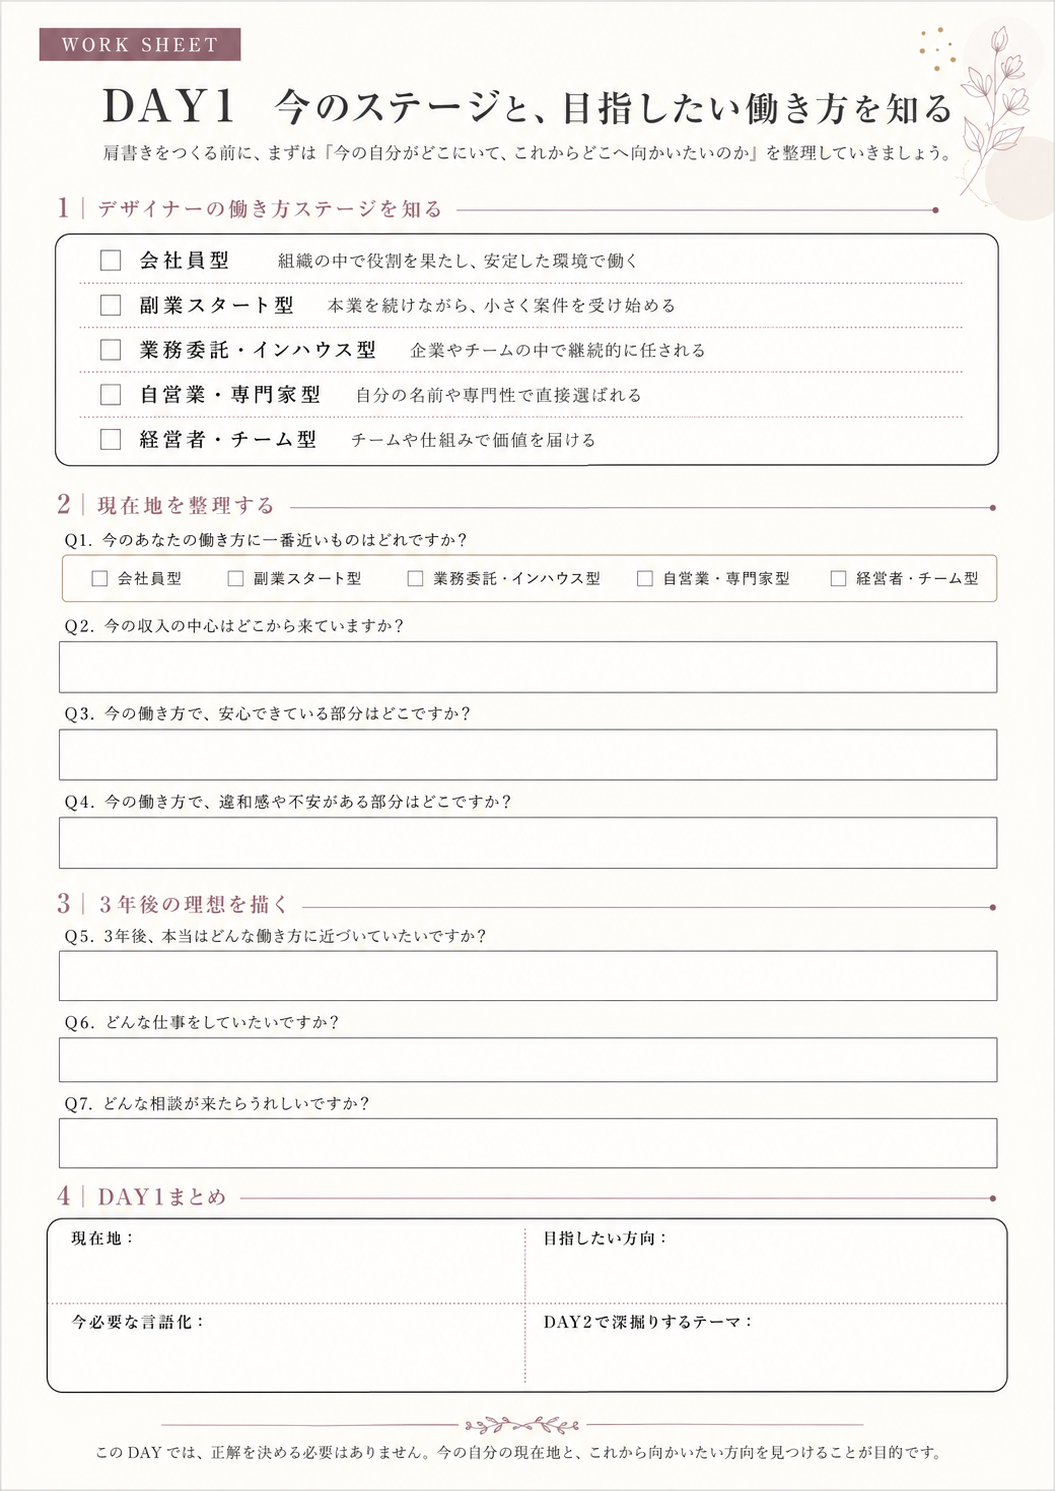
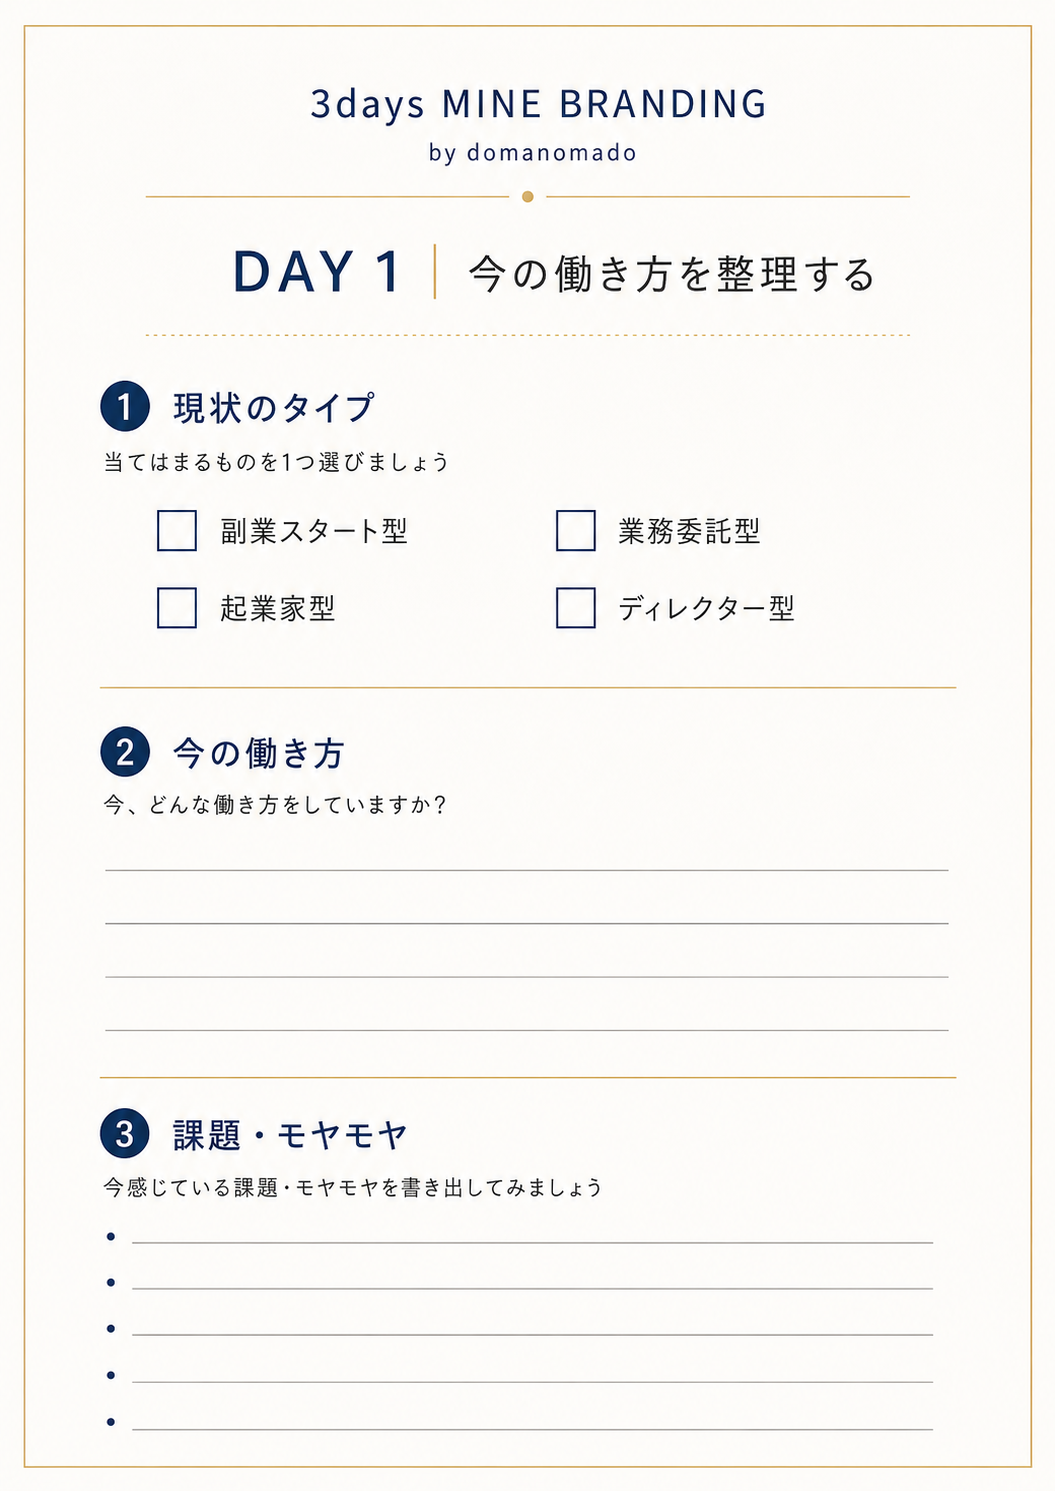
ワークシート画像（DAY1〜3）を新構成用に差し替え・表示を3枚対応に
- day1/day2/day3.png を新デザインに更新
- _get_worksheet_path をday{n}.pngの汎用パスに変更
- ウェルカム・マイページのワークシート説明を3DAY分に更新
- _note_guide_section で3枚を横並び表示

diff --git a/app.py b/app.py
@@ -223,10 +223,8 @@ _init_session()
 WORKSHEETS_DIR = Path(__file__).parent / "assets" / "worksheets"
 
 def _get_worksheet_path(day: int, route: str) -> Path | None:
-    if day == 1:
-        p = WORKSHEETS_DIR / "day1.png"
-        return p if p.exists() else None
-    return None
+    p = WORKSHEETS_DIR / f"day{day}.png"
+    return p if p.exists() else None
 
 def _show_worksheet(day: int, route: str):
     path = _get_worksheet_path(day, route)
@@ -373,14 +371,18 @@ def _note_guide_section(route: str = ""):
 border-radius:0 12px 12px 0;margin:8px 0 16px 0;line-height:1.9;">
 <strong>ブランディングノートの使い方</strong><br>
 AIとの壁打ちのあとに、自分の言葉でノートにまとめてみると思考がさらに整理されます。<br>
-DAY1に対応したワークシートを印刷して、<em>手書きで書き込みながらセッションを進める</em>のがおすすめです。
+各DAYに対応したワークシートを印刷して、<em>手書きで書き込みながらセッションを進める</em>のがおすすめです。
 </div>
 """, unsafe_allow_html=True)
 
-    day1_path = WORKSHEETS_DIR / "day1.png"
-    col1, col_dummy = st.columns([1, 1])
-    with col1:
-        _ws_card("DAY 1 ワークシート", day1_path, "dl_day1_guide")
+    col1, col2, col3 = st.columns(3)
+    for col, day, label in zip(
+        [col1, col2, col3],
+        [1, 2, 3],
+        ["DAY 1 今の働き方を整理する", "DAY 2 理想の状態を言語化する", "DAY 3 ギャップを整理する"],
+    ):
+        with col:
+            _ws_card(label, WORKSHEETS_DIR / f"day{day}.png", f"dl_day{day}_guide")
 
 
 # ── 画面1：ウェルカム ─────────────────────────────────────────────────────────
@@ -455,7 +457,7 @@ def show_welcome():
 <div style="background:#f5f0ff;border-radius:12px;padding:12px 16px;margin:12px 0;font-size:13px;color:#5a20a0;line-height:1.8;">
 ✍ <strong>AIの壁打ち＋手書きノートの組み合わせがおすすめです。</strong><br>
 AIとの対話のあと、自分の言葉でノートに書き出してみると、思考がさらに整理されます。<br>
-DAY1に対応したワークシートを用意しています。下記からダウンロードして、印刷してご活用ください。
+各DAYに対応したワークシートを用意しています。下記からダウンロードして、印刷してご活用ください。
 </div>
 """, unsafe_allow_html=True)
 
@@ -620,7 +622,7 @@ def show_home():
     with st.expander("ワークシートをダウンロードする（手書き記入用）"):
         st.markdown("""
 AIとの壁打ちのあとに、自分の言葉でノートに書き出してみると思考がさらに整理されます。
-DAY1対応のワークシートを印刷して、手書きで記入しながらセッションを進めるのもおすすめです。
+各DAYに対応したワークシートを印刷して、手書きで記入しながらセッションを進めるのもおすすめです。
 """)
         _note_guide_section(route=mgr.route)
 
